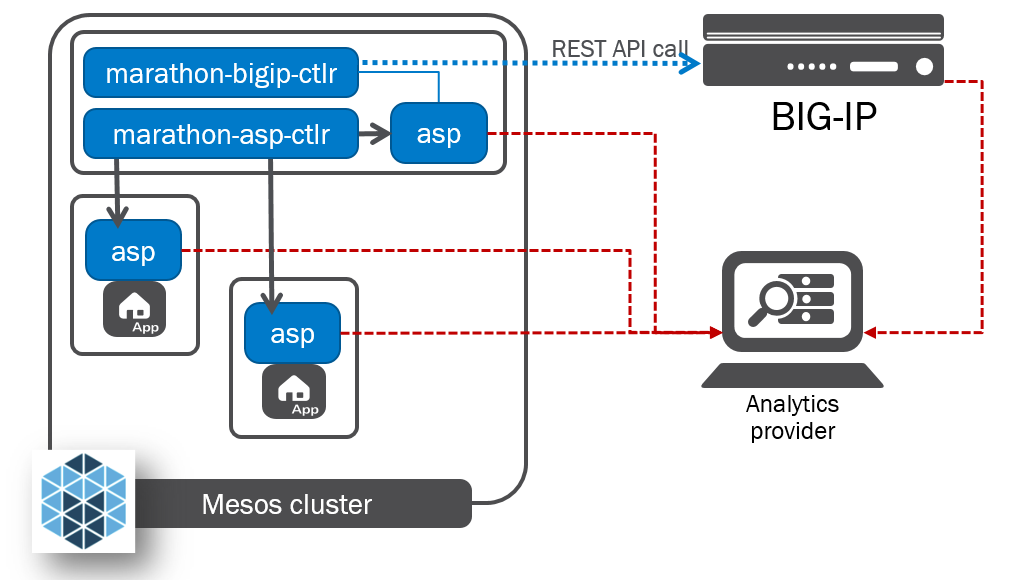
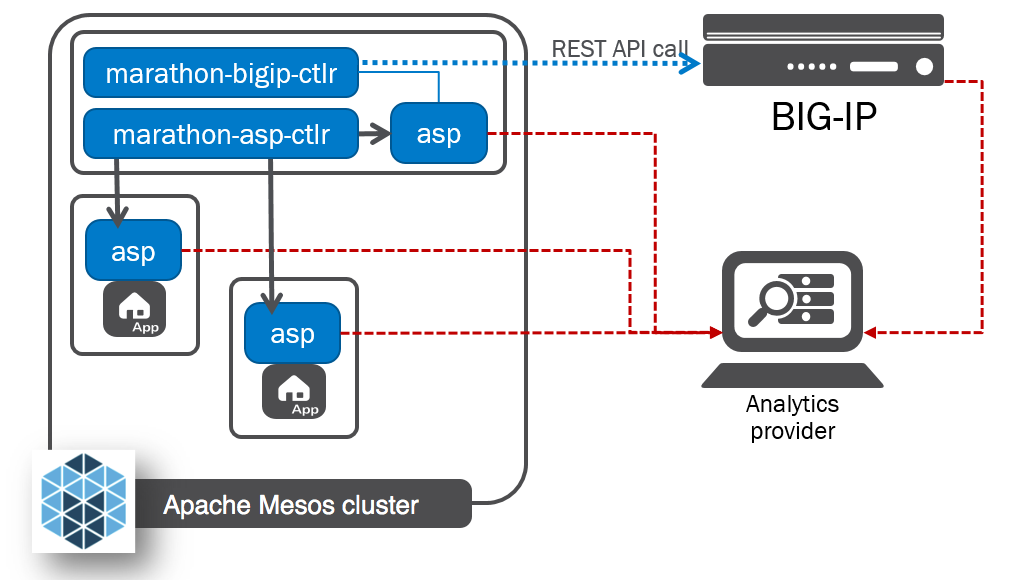
Fixes #123 - Mesos product naming and diagram - update platform name in solution diagram; remove deprecated diagram - change 'Mesos' to 'Apache Mesos' where appropriate

Changed region(s): [[0.1553, 0.8379, 0.4039, 0.9]]

diff --git a/docs/marathon/index.rst b/docs/marathon/index.rst
@@ -67,8 +67,8 @@ The |mctlr| watches the Marathon API for special "F5 Application Labels" that te
 
 You can :ref:`manage BIG-IP objects <mctlr-manage-bigip-objects>` directly, or :ref:`deploy iApps <mctlr-deploy-iapps>`, with the |mctlr-long|.
 
-Key Mesos/Marathon Concepts
----------------------------
+Key Apache Mesos/Marathon Concepts
+----------------------------------
 
 .. _app-labels:
 
@@ -98,10 +98,10 @@ A few of the key iApp Application Labels must be customized based on the iApp yo
 - ``F5_{n}_IAPP_VARIABLE_*`` -- Custom-defined parameters that correspond to fields in the iApp template you want to launch.
 - ``F5_{n}_IAPP_POOL_MEMBER_TABLE`` -- Custom definition for the name and layout of the `Pool Member Table </products/connectors/marathon-bigip-ctlr/index.html#F5_{n}_IAPP_POOL_MEMBER_TABLE>`_ in the iApp.
 
-Mesos DNS and ASP Discovery
-```````````````````````````
+Apache Mesos DNS and ASP Discovery
+``````````````````````````````````
 
-Each |asp| instance is discoverable via a Mesos DNS SRV query, which returns its IP address, port, and protocol.
+Each |asp| instance is discoverable via an Apache Mesos DNS SRV query, which returns its IP address, port, and protocol.
 By convention, the DNS name of an |asp| instance for an Application is “<ASP_ENABLE_LABLE>-<application name>.<domain name>”.
 
 For example:
@@ -117,11 +117,11 @@ Port Mapping
 ````````````
 
 In Marathon, container-based applications using Docker BRIDGE mode must have `port mappings`_ configured. [#dockerbridge]_
-For Applications proxied by the |mctlr-long|, these port mappings make it possible for the BIG-IP to route external traffic to `service ports`_ inside the Mesos cluster. You can define multiple port mappings for a Marathon Application.
+For Applications proxied by the |mctlr-long|, these port mappings make it possible for the BIG-IP to route external traffic to `service ports`_ inside the Apache Mesos cluster. You can define multiple port mappings for a Marathon Application.
 
 .. important::
 
-    Mesos commonly restricts binding to ports in a specific range. Consult the Mesos `ports resource`_ to see what ports are available in your cluster before defining service ports and/or port mappings for your applications.
+    Apache Mesos commonly restricts binding to ports in a specific range. Consult the Apache Mesos `ports resource`_ to see what ports are available in your cluster before defining service ports and/or port mappings for your applications.
 
     Incorrect port mappings may result in deployment failures. See :ref:`Troubleshooting your Marathon deployments <troubleshoot-marathon>` for more information.
 

diff --git a/docs/marathon/mctlr-authenticate-dcos.rst b/docs/marathon/mctlr-authenticate-dcos.rst
@@ -4,12 +4,12 @@ Set up authentication to your secure DC/OS cluster
 ==================================================
 
 
-If you're using the Mesos DC/OS `cluster security features <https://docs.mesosphere.com/1.8/overview/features/#identity-access-mgmt>`_, you'll need to give |mctlr-long| access to your cluster.
+If you're using the Apache Mesos DC/OS `cluster security features <https://docs.mesosphere.com/1.8/overview/features/#identity-access-mgmt>`_, you'll need to give |mctlr-long| access to your cluster.
 
 DC/OS Open
 ----------
 
-`DC/OS Open <https://dcos.io/>`_ uses `DC/OS oauth <https://dcos.io/docs/1.8/administration/id-and-access-mgt/>`_ to secure access. To use the |mctlr| App with a secure cluster, assign it a user account with permission to access the desired cluster.
+Apache Mesos `DC/OS Open <https://dcos.io/>`_ uses `DC/OS oauth <https://dcos.io/docs/1.8/administration/id-and-access-mgt/>`_ to secure access. To use the |mctlr| App with a secure cluster, assign it a user account with permission to access the desired cluster.
 
 #. `Create a user account for the App <https://dcos.io/docs/1.8/administration/id-and-access-mgt/managing-authentication>`_
 
@@ -62,9 +62,12 @@ DC/OS Enterprise
 
         "{
             \"scheme\": \"RS256\",
-            \"uid\": \"<service_account_name>\", ## the Mesos DC/OS account name
-            \"login_endpoint\": \"https://<mesos_master>/acs/api/v1/auth/login\", ## cluster login endpoint
-            \"private_key\": \"<private_key>\" ## contents of the private key you created for the DC/OS account
+            ## the DC/OS account name
+            \"uid\": \"<service_account_name>\",
+            ## the cluster login endpoint
+            \"login_endpoint\": \"https://<mesos_master>/acs/api/v1/auth/login\",
+            ## the contents of the private key you created for the DC/OS account
+            \"private_key\": \"<private_key>\"
         }"
 
 

diff --git a/docs/index.rst b/docs/index.rst
@@ -11,8 +11,8 @@ F5's Container Connectors ('CCs') understand the container orchestration environ
 =======================     ===================================================
 Container Connector         Description
 =======================     ===================================================
-marathon-bigip-ctlr         Configures a BIG-IP to expose applications in a
-                            `Mesos`_ cluster as virtual servers on
+marathon-bigip-ctlr         Configures a BIG-IP to expose applications in an
+                            `Apache Mesos`_ cluster as virtual servers on
                             BIG-IP, serving North-South traffic.
 -----------------------     ---------------------------------------------------
 marathon-asp-ctlr           Provisions and configures ASPs in a

diff --git a/docs/troubleshooting/marathon.rst b/docs/troubleshooting/marathon.rst
@@ -13,7 +13,7 @@ If the Service Port associated with an ASP instance cannot be allocated, the ASP
 
 .. rubric:: Solution:
 
-Edit the Application definition and replace the service port with an available port in the correct range. See the Mesos `ports resource <http://mesos.apache.org/documentation/latest/attributes-resources/>`_ to see what ports are available in your cluster.
+Edit the Application definition and replace the service port with an available port in the correct range. See the Apache Mesos `ports resource <http://mesos.apache.org/documentation/latest/attributes-resources/>`_ to see what ports are available in your cluster.
 
 
 |aspm-long|
